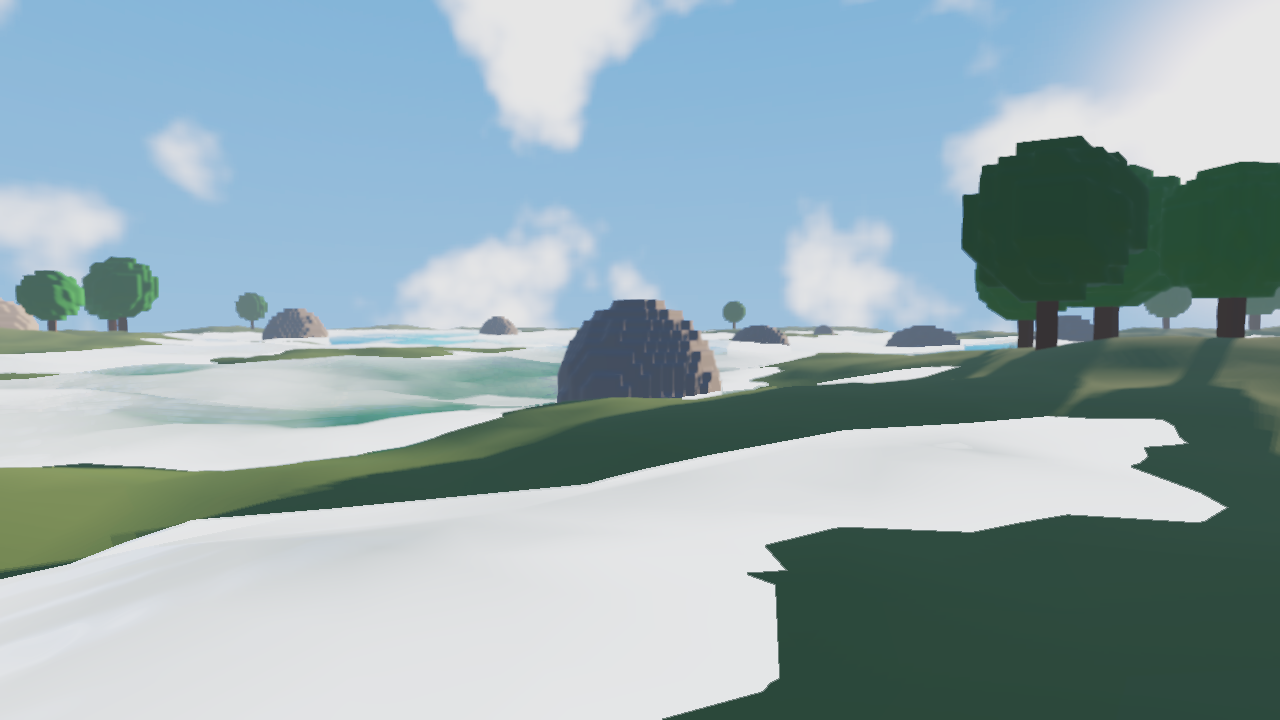
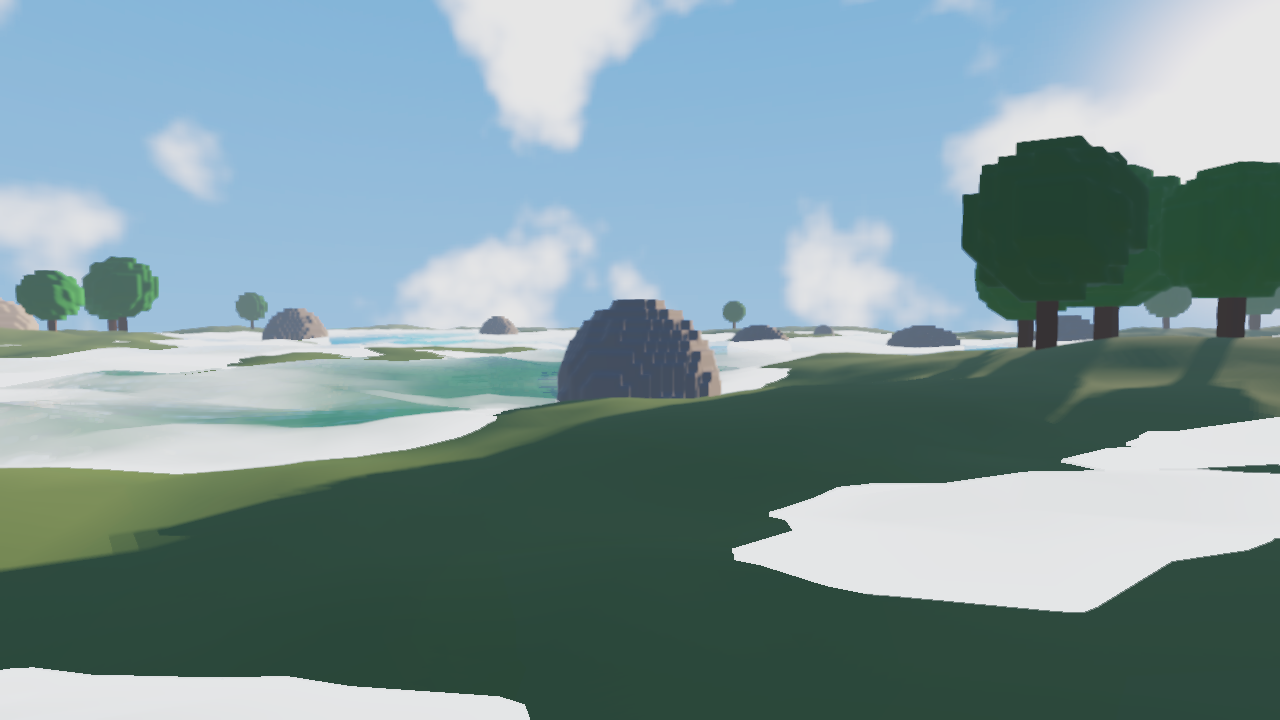
G13 water tuning: re-render docs/images on current main (SSR feeds the water pass now); comment fix hdrS -> hdrW

diff --git a/src/render/deferred_renderer.cpp b/src/render/deferred_renderer.cpp
@@ -926,7 +926,7 @@ void DeferredRenderer::render(const fuhgl::render::SceneView& scene,
 
 // G5 particles post pass: copy hdr -> hdrP, then draw each system's instanced billboards
 // (blended, depth-tested against the G-buffer depth) into hdrP.
-// G13 water post pass: hdr -> hdrW. Always starts from the lighting result; with an active
+// G13 water post pass: hdrS -> hdrW. Always starts from the lighting/SSR result; with an active
 // water surface the mesh is shaded on top (Gerstner waves + planar reflection + refraction +
 // foam). The post FBO has no depth attachment, so the fragment shader does the occlusion
 // test manually against the G-buffer depth (uGDepth).
